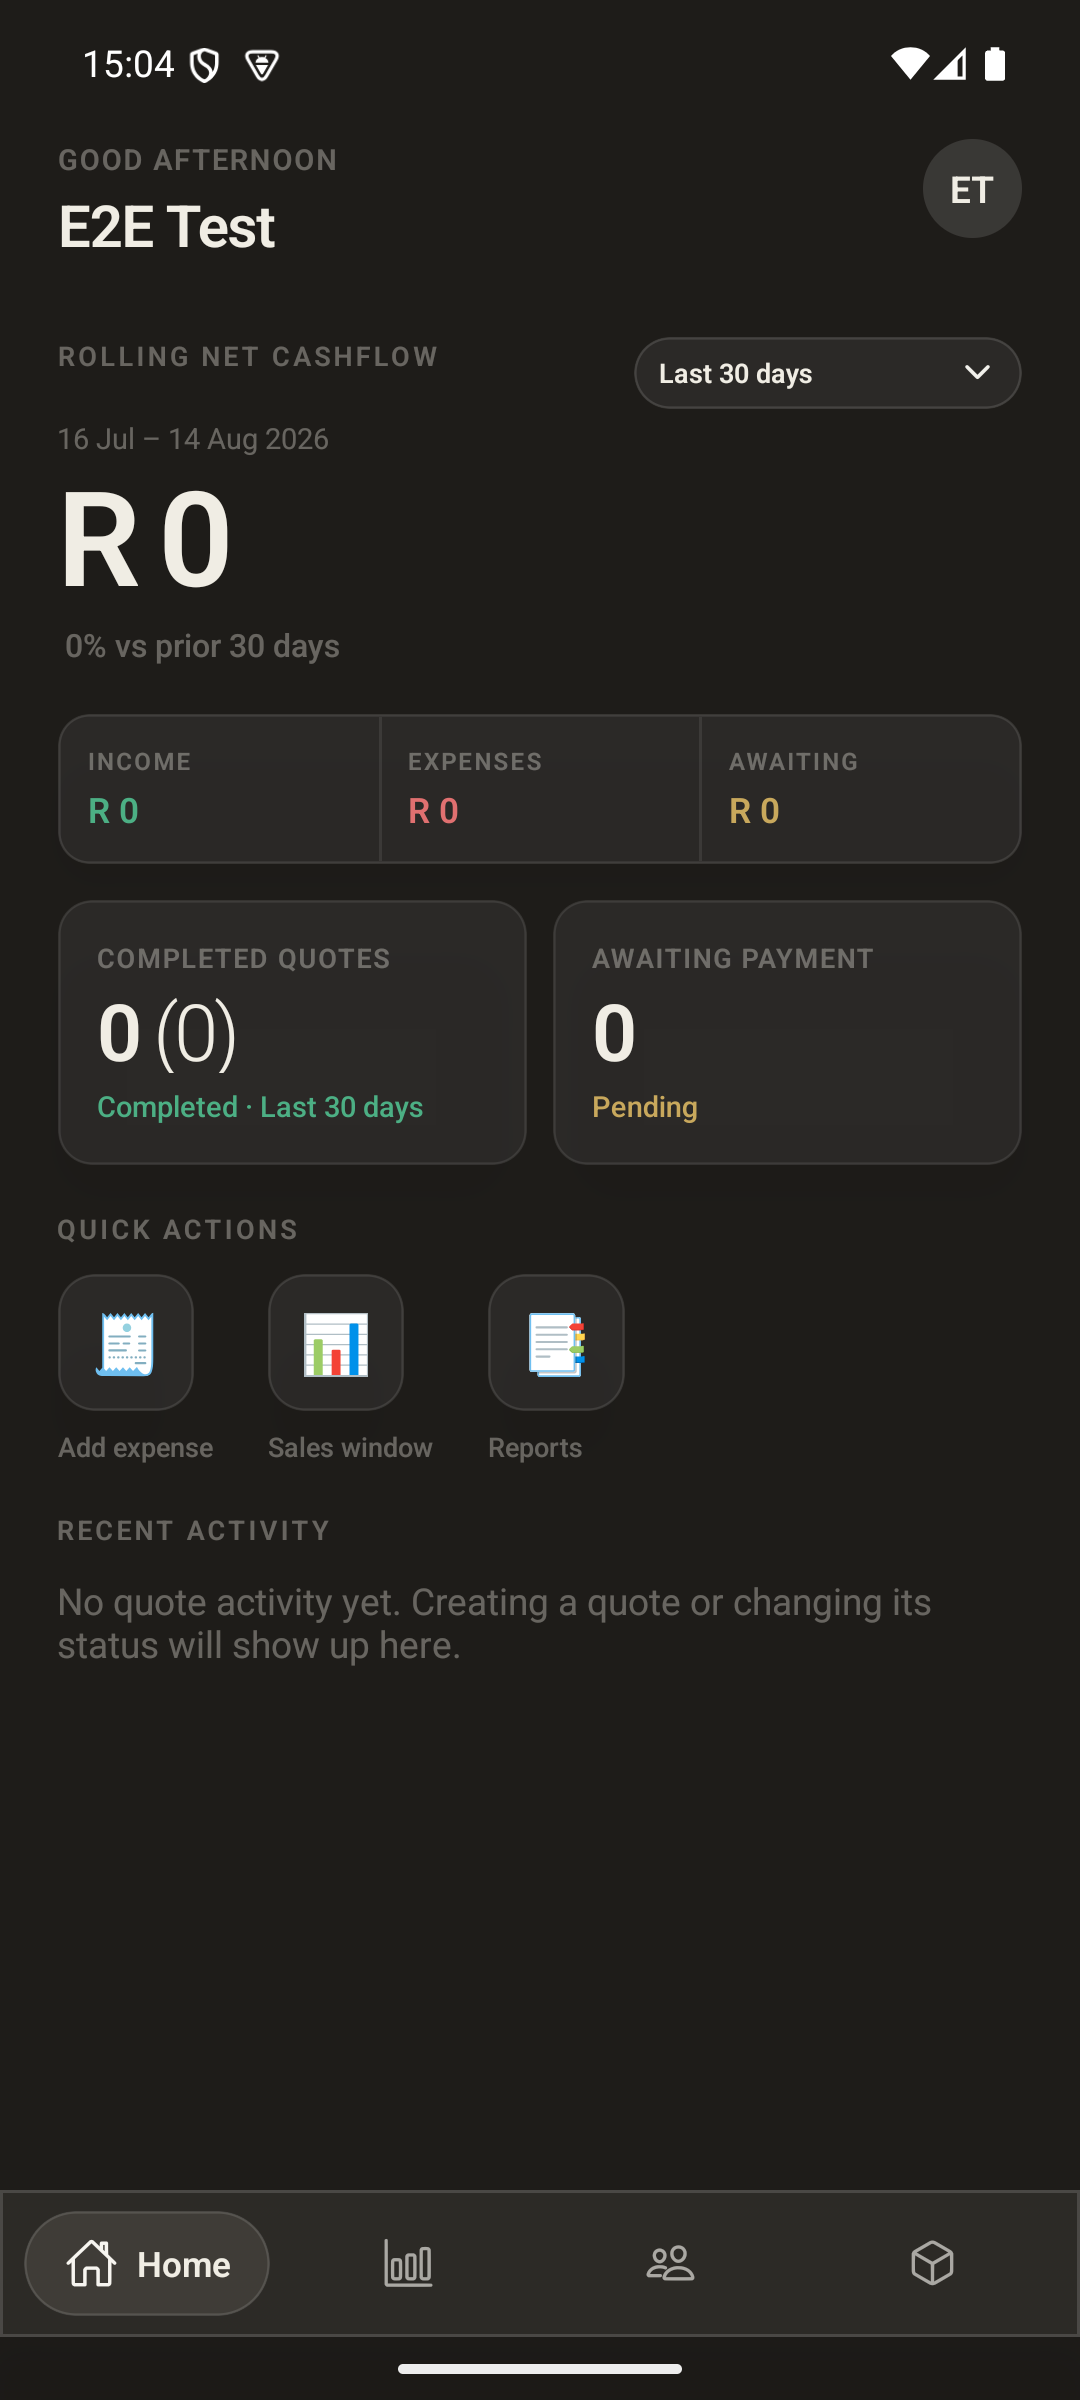
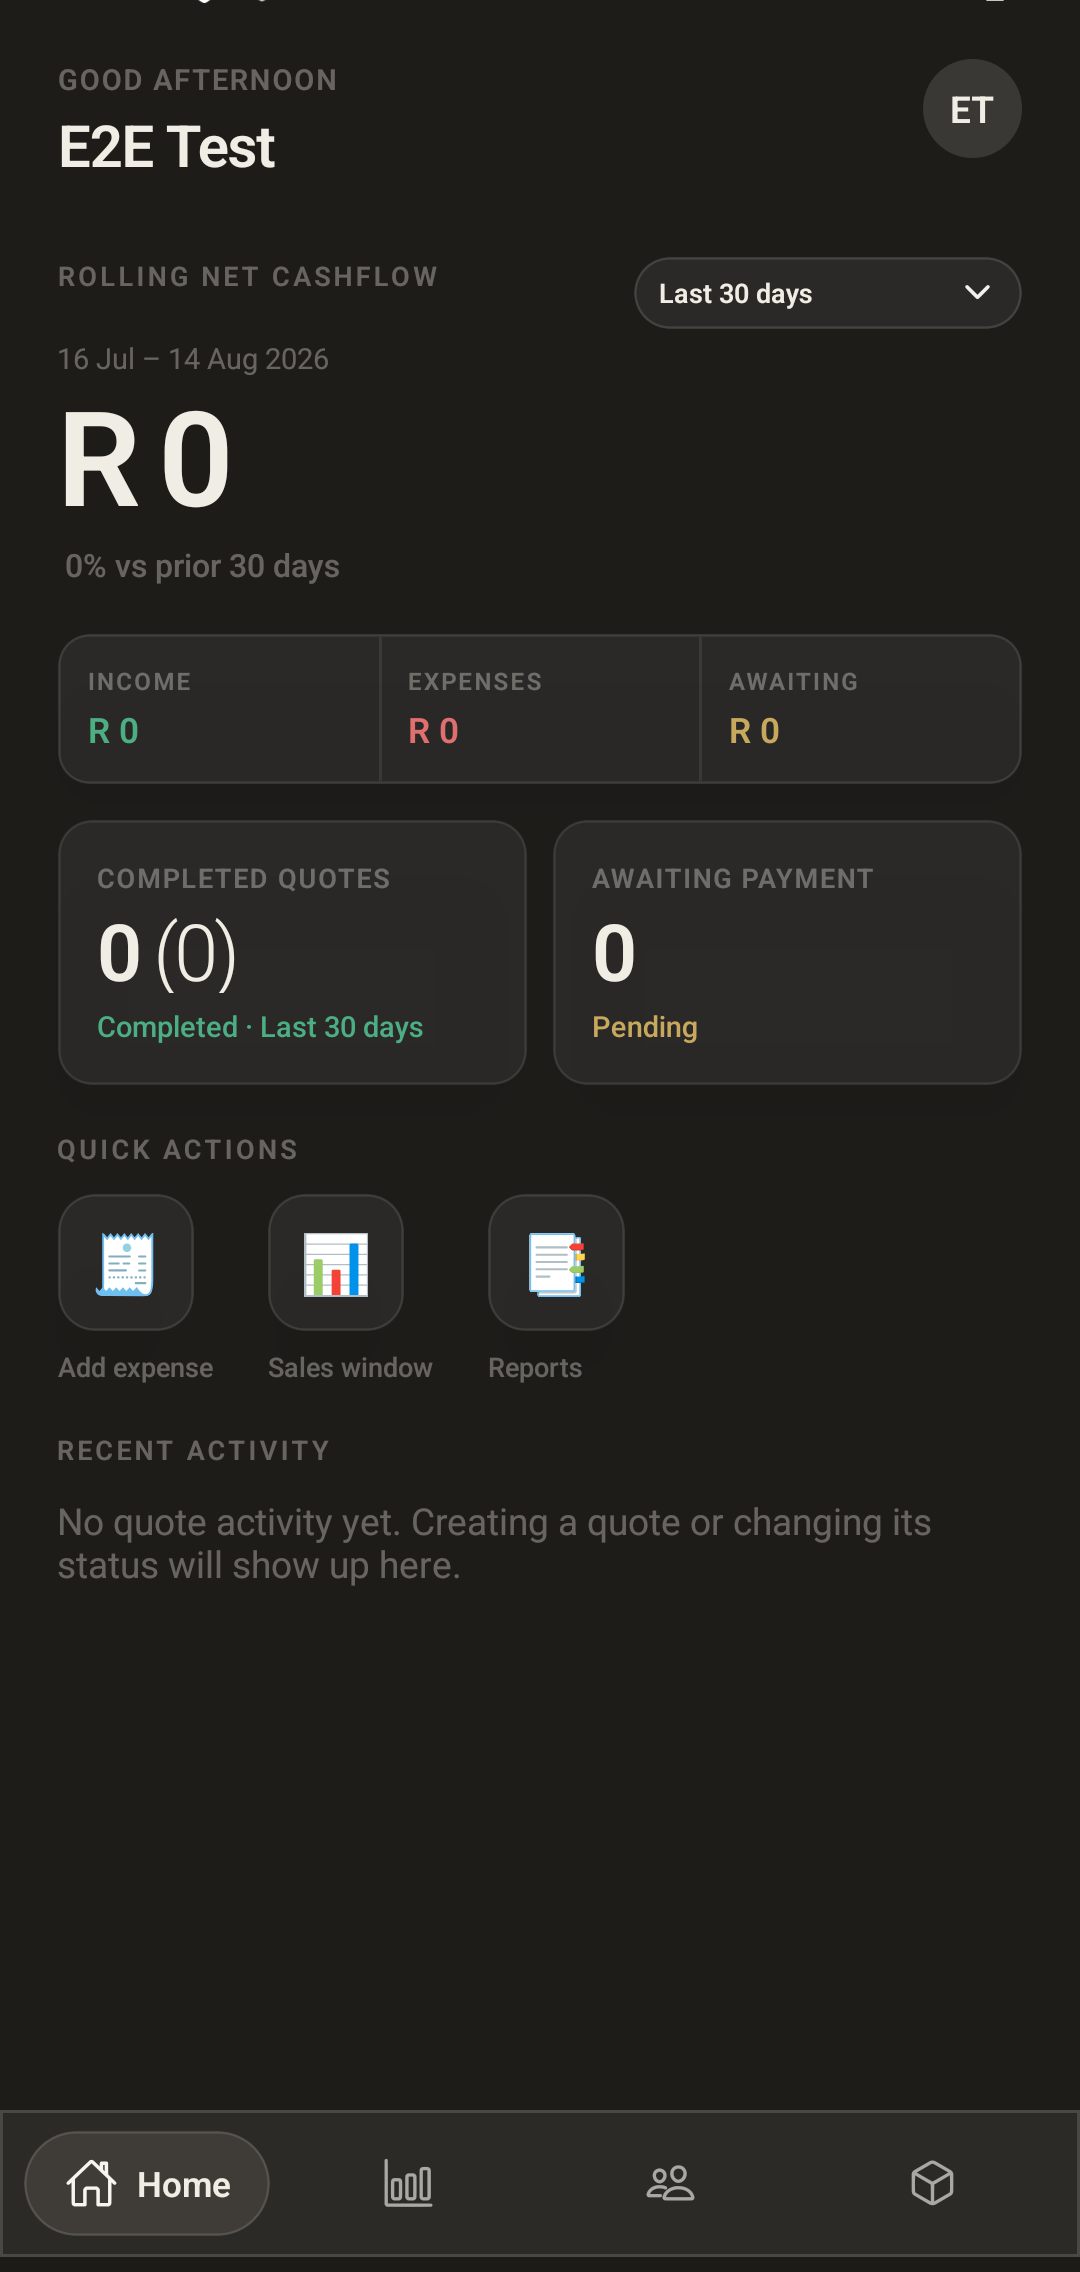
Fix hero phone so the Home screenshot is not cropped.

diff --git a/src/style.css b/src/style.css
@@ -236,7 +236,7 @@ body {
   position: relative;
   width: min(100%, 340px);
   border-radius: 42px;
-  padding: 12px;
+  padding: 10px;
   background: #0a0a0b;
   border: 1px solid rgb(255 255 255 / 14%);
   box-shadow:
@@ -247,9 +247,23 @@ body {
 
 @media (min-width: 900px) {
   .phone {
-    width: min(100%, 380px);
-    transform: rotateY(-12deg) rotateX(3deg);
+    width: min(100%, 372px);
+    transform: rotateY(-8deg);
   }
+}
+
+.phone-screen {
+  position: relative;
+  overflow: hidden;
+  border-radius: 32px;
+  line-height: 0;
+  background: var(--color-app-canvas);
+}
+
+.phone-screen img {
+  display: block;
+  width: 100%;
+  height: auto;
 }
 
 .mainpage-trust {
@@ -268,22 +282,6 @@ body {
   gap: 28px 44px;
   max-width: 820px;
   margin: 0 auto;
-}
-
-.phone-screen {
-  position: relative;
-  overflow: hidden;
-  border-radius: 30px;
-  aspect-ratio: 1080 / 2280;
-  background: var(--color-app-canvas);
-}
-
-.phone-screen img {
-  display: block;
-  width: 100%;
-  height: 100%;
-  object-fit: cover;
-  object-position: top center;
 }
 
 .shot {

diff --git a/index.html b/index.html
@@ -102,7 +102,7 @@
                 src="/screenshots/home.png"
                 alt="PocketBusiness Home dashboard in dark mode, showing net cashflow, income, expenses and awaiting."
                 width="1080"
-                height="2280"
+                height="2272"
               />
             </div>
           </div>
